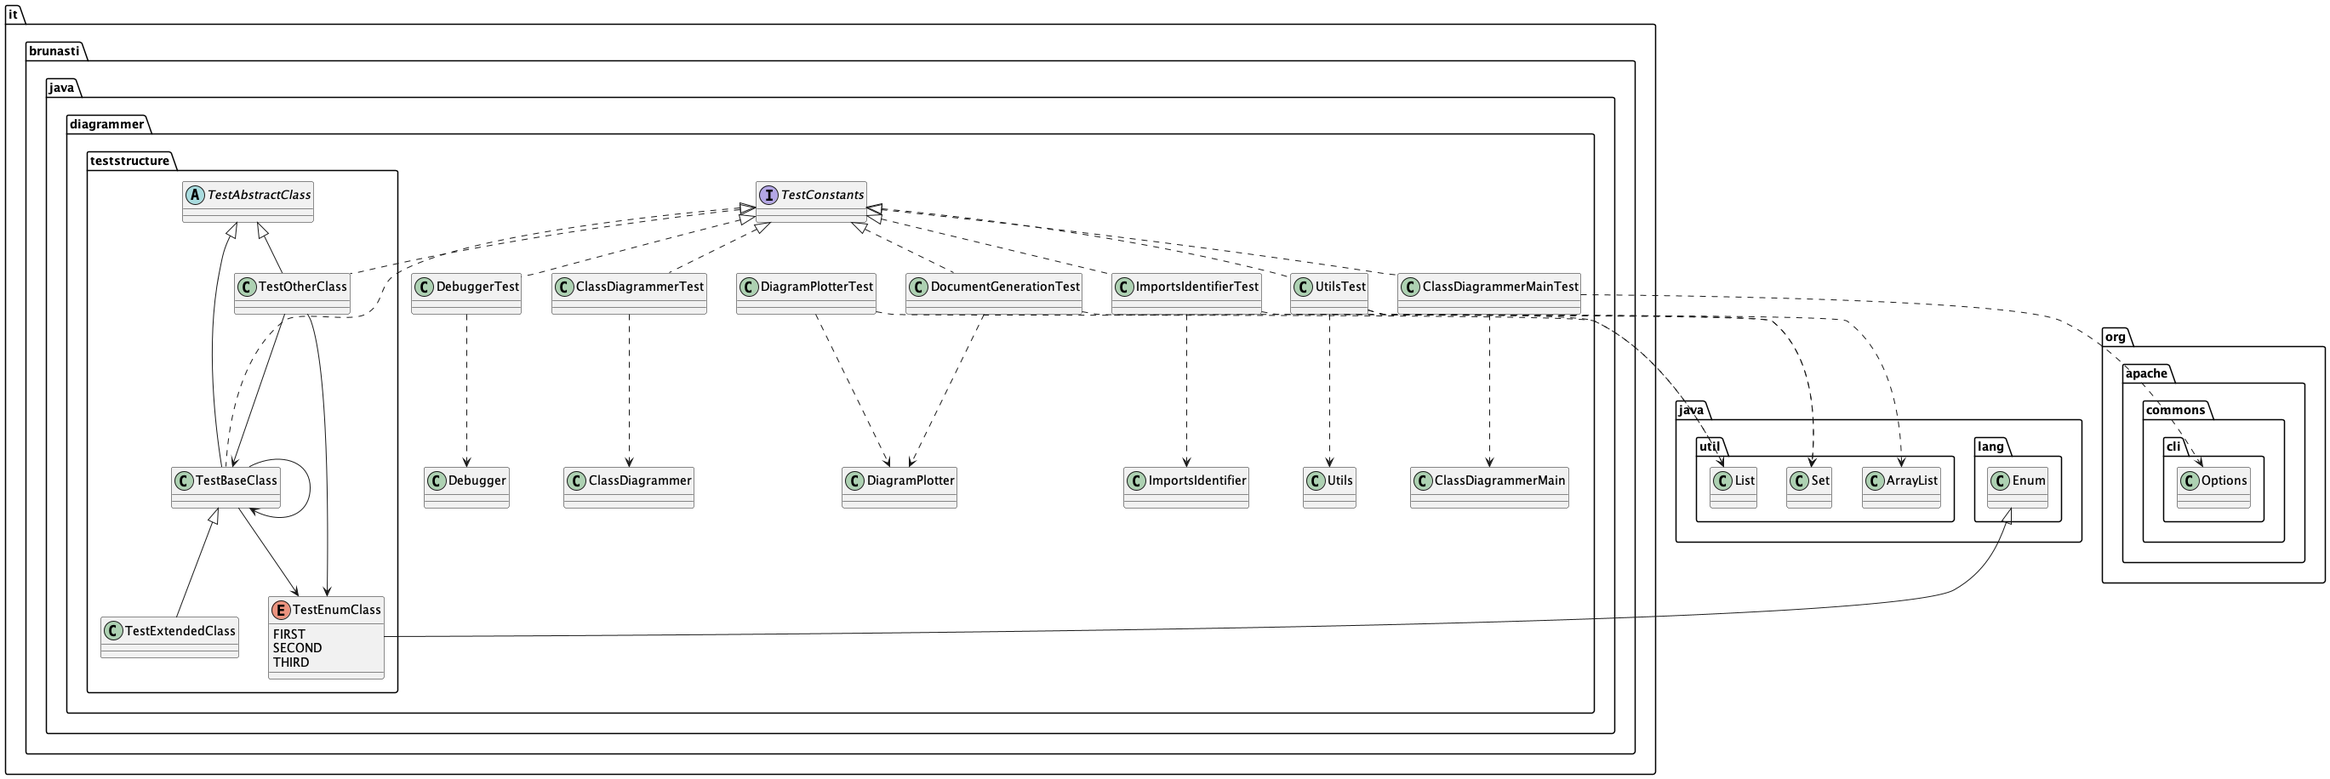
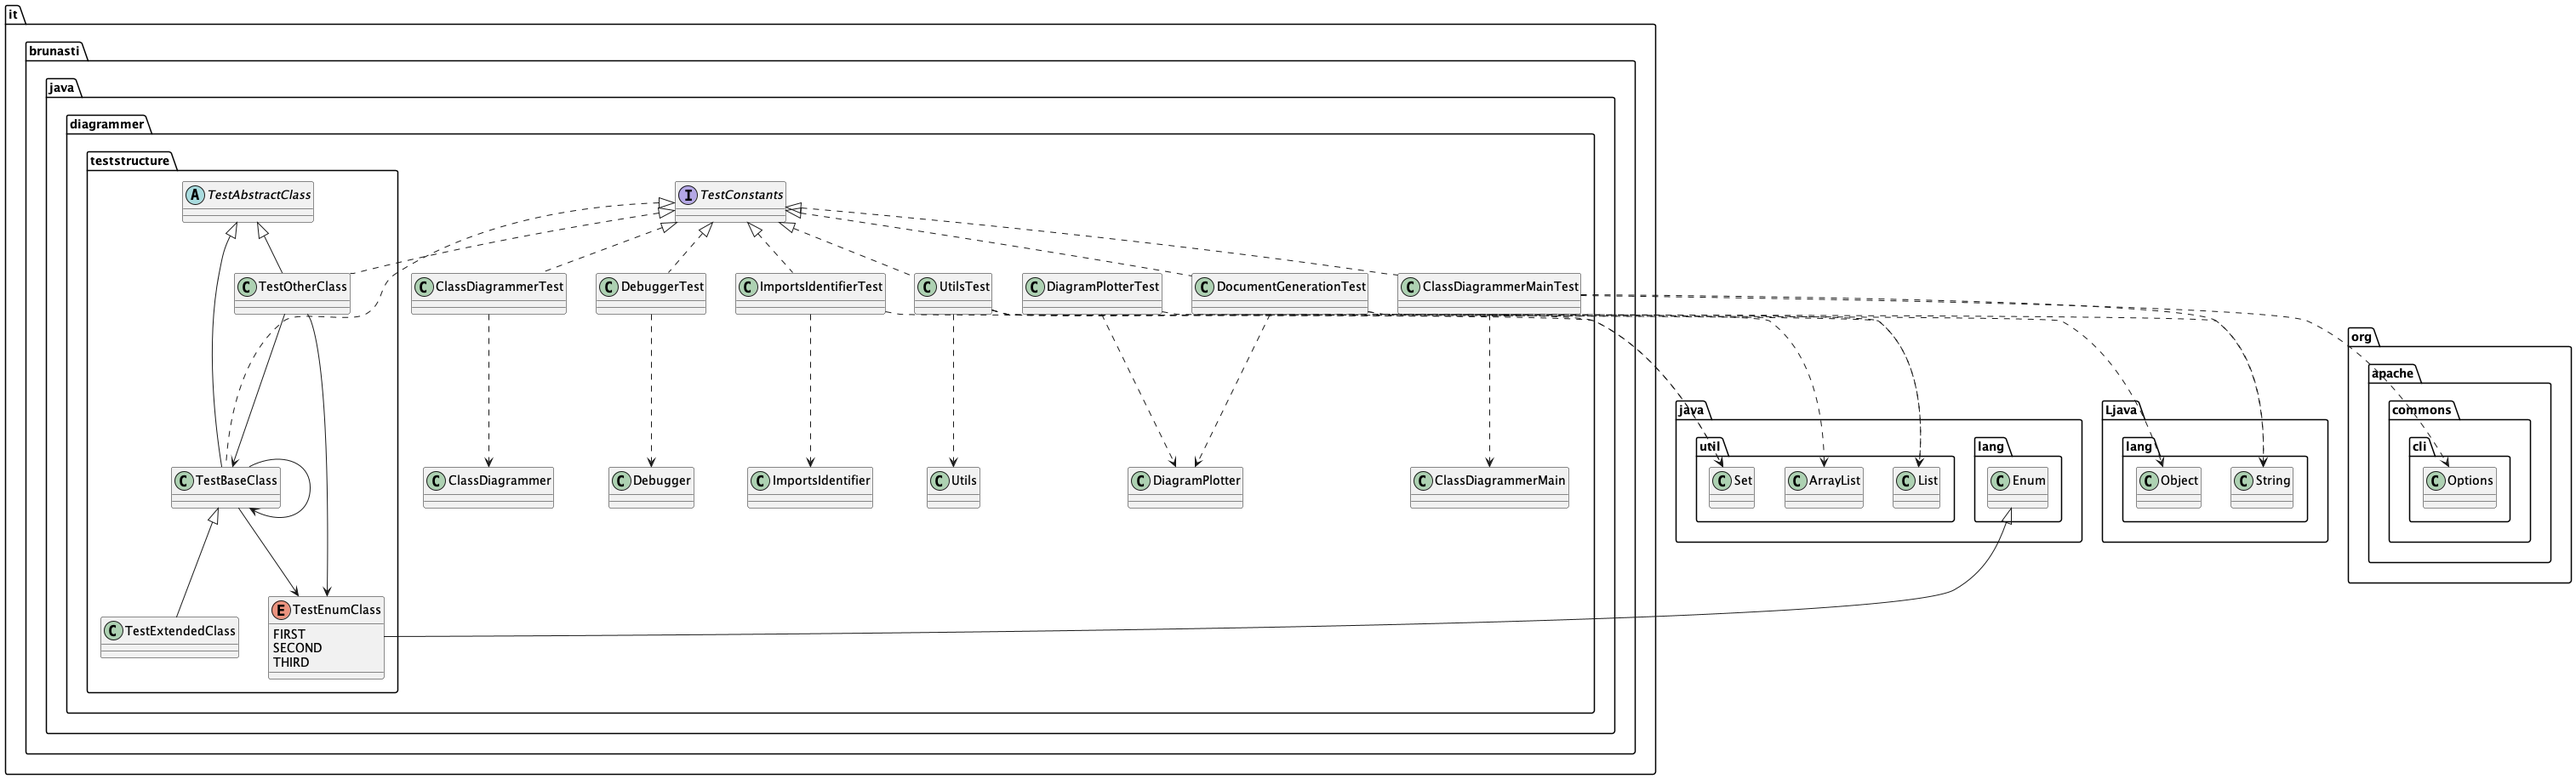
Adds more JavaDocs

diff --git a/src/main/java/it/brunasti/java/diagrammer/ClassDiagrammer.java b/src/main/java/it/brunasti/java/diagrammer/ClassDiagrammer.java
@@ -41,7 +41,6 @@ public class ClassDiagrammer {
   // TODO: create more meaningful tests
   // TODO: Rebuild the project in a clean env (libs dependencies....)
   // TODO: Avoid generic catch(Exception)
-  // TODO: add Javadoc comments
 
   // Reference to a PrintStream to be used for the diagram
   // By default is the Standard.out, but it can be redirected
@@ -61,14 +60,14 @@ public class ClassDiagrammer {
   private HashSet<String> usesWritten = new HashSet<>();
 
   /**
-   * Instantiate a CLassDiagrammer with output directed to StandardOut.
+   * Instantiate a ClassDiagrammer with output directed to StandardOut.
    */
   public ClassDiagrammer() {
     this.output = System.out;
   }
 
   /**
-   * Instantiate a CLassDiagrammer with output directed to a passed PrintStream.
+   * Instantiate a ClassDiagrammer with output directed to a passed PrintStream.
    * Used in case to create an output file, passing a PrintStream pointing
    * to the desired file.
    * If System.out is passed, the output is to StandardOut.
@@ -106,7 +105,7 @@ public class ClassDiagrammer {
   // Load and manage Configuration ------------------------
 
   private void setDefaultConfiguration() {
-    toBeExcludedPackages.add("Ljava.lang.");
+//    toBeExcludedPackages.add("Ljava.lang.");
     toBeExcludedPackages.add("java.lang.");
     includeFileName = "";
     flagAvoidSelfReferring = false;
